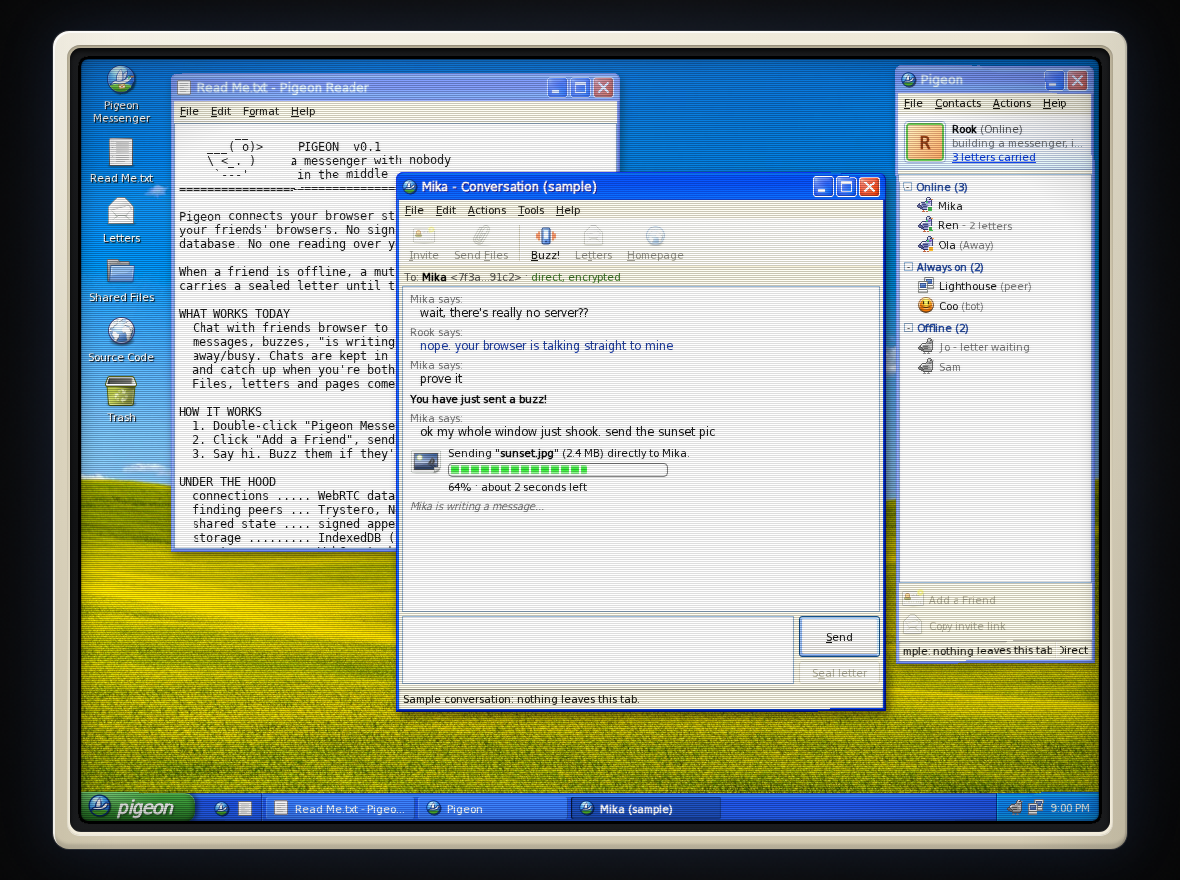
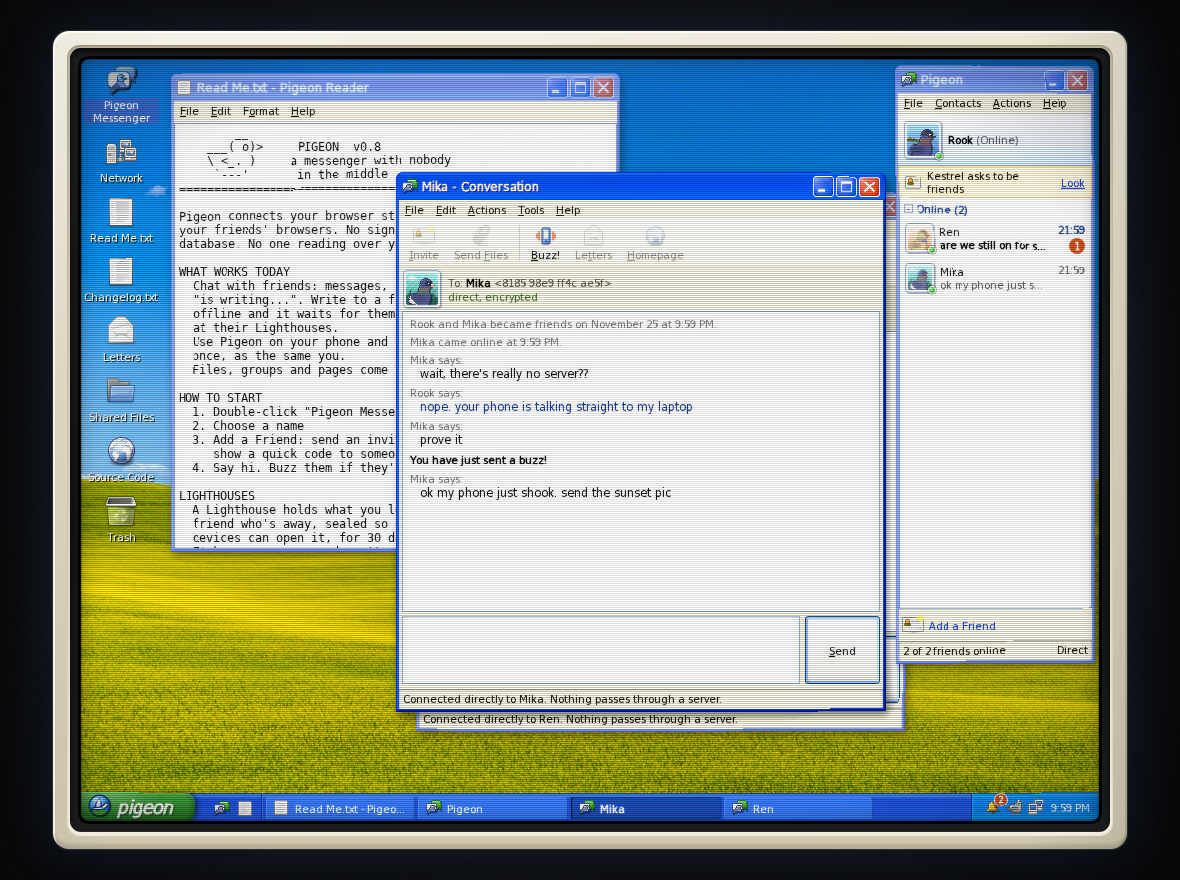
docs: a leaner README and Read Me, with 0.8.0's screenshots (#99)
Ready for 0.8.0.

- **README:** the feature list is down to the four big things: adding
friends with an invite link or a quick code, messages that wait at
Lighthouses, all your devices, and the desktop and the Pocket. The note
at the top says what works, and Try It says to send an invite link. The
Lighthouse paragraph is shorter.
- **Read Me.txt** says the same in brief: what works, how to start, what
a Lighthouse is, and the known limits. Under the Hood is gone; the
README and Help cover it.
- **Screenshots:** the four app screenshots are retaken with real paired
Pigeons, since the sample conversation is gone, and they show 0.8.
- the desktop, with a chat with Mika, the friend list with last messages
and a badge, a request strip, and the tray badge;
  - the Pocket's home screen, with While You Were Away and Online Now;
  - Add a Friend, with Kestrel asking through an invite link;
  - a chat on the Pocket, with a buzz.

  The maze screenshot stays.

**Checks:** `mise run check` passes.

diff --git a/apps/web/src/apps/reader/readme/readme-text.ts b/apps/web/src/apps/reader/readme/readme-text.ts
@@ -11,45 +11,29 @@ your friends' browsers. No sign-up. No
 database. No one reading over your shoulder.
 
 WHAT WORKS TODAY
-  Chat with friends browser to browser:
-  messages, buzzes, "is writing..." and
-  away/busy. Chats are kept in this browser
-  and catch up when you're both online.
-  Every friend has a pigeon of their own,
-  drawn from their key, the same everywhere.
+  Chat with friends: messages, buzzes and
+  "is writing...". Write to a friend who's
+  offline and it waits for them, sealed,
+  at their Lighthouses.
   Use Pigeon on your phone and laptop at
   once, as the same you.
-  Letters, files and pages come later.
+  Files, groups and pages come later.
 
-HOW IT WORKS
+HOW TO START
   1. Double-click "Pigeon Messenger"
-  2. Click "Add a Friend", send the link
-  3. Say hi. Buzz them if they're slow.
-  On another device: File, Link a Device
-  on this one, then type the code there.
-
-UNDER THE HOOD
-  connections ..... WebRTC data channels
-  finding peers ... Trystero, Nostr relays
-  your rooms ...... named by a secret only
-                    you two hold, renamed
-                    every day
-  shared state .... signed append-only logs
-  storage ......... IndexedDB (local only)
-  crypto .......... WebCrypto keypairs
+  2. Choose a name
+  3. Add a Friend: send an invite link, or
+     show a quick code to someone near you
+  4. Say hi. Buzz them if they're slow.
 
 LIGHTHOUSES
-  When a friend is away, a Lighthouse
-  holds what you leave for them, sealed so
-  only their devices can open it. Your own
-  devices leave each other what changed
-  there too: your name, your devices and
-  your Lighthouses. It keeps
-  no names and nothing it can read, for 30
-  days at most. It does see your address
-  when you connect. Network, on the
-  desktop, shows yours: Loft, Dovecote and
-  Perch unless you add your own.
+  A Lighthouse holds what you leave for a
+  friend who's away, sealed so only their
+  devices can open it, for 30 days at most.
+  It keeps no names and can't read it, but
+  it does see your address when you
+  connect. Network shows yours: Loft,
+  Dovecote and Perch unless you add more.
 
 KNOWN LIMITS
   Some networks block direct connections;
@@ -57,8 +41,8 @@ KNOWN LIMITS
   can't read your messages. Always Go
   Through the Relay, in Network, hides your
   address from friends too.
-  Only your first device links and removes
-  devices. Keep it safe.
+  Keep your first device safe: it links and
+  removes the others.
   On an iPhone, add Pigeon to the Home
   Screen, or Safari forgets it in 7 days.
 

diff --git a/README.md b/README.md
@@ -12,42 +12,36 @@
 </div>
 
 <p align="center">
-    <img src="docs/screenshots/1-desktop.png" alt="The Pigeon desktop on a CRT monitor, with the Read Me, a conversation with Mika and the friends list open" width="840" />
+    <img src="docs/screenshots/1-desktop.png" alt="The Pigeon desktop on a CRT monitor: a conversation with Mika, the friends list with each chat's last message, and Read Me" width="840" />
 </p>
 
 > [!NOTE]
-> Pigeon is in early development. Chatting with friends, on as many of your devices as you like, works today, and messages reach friends who are offline. Files and pages hosted by friends aren't built yet.
+> Pigeon is in early development. Chatting with friends, on all your devices, works today, even when they're offline. Files, groups and pages hosted by friends come later.
 > Try it at **[pigeon.tomszir.com](https://pigeon.tomszir.com)**.
 
 ## What it does
 
 It's 2003, peer-to-peer won and the cloud never happened. Pigeon is the messenger from that world: your browser talks straight to your friends' browsers, with no account, no server keeping your chats and no one reading over your shoulder.
 
-- **Add a friend with a code:** Add a Friend shows a short code like `K7RT-VP2B` to read out, a link and a QR code. Each code works once, for 30 minutes. Before a friend is added, Pigeon shows who answered and their fingerprint, so you can check it's really them.
-- **Chat like it's 2003:** messages, buzzes that shake the window, "is writing a message…", away and busy, and a note when a friend comes online or goes offline.
-- **Chats that catch up:** conversations are kept in your browser, signed by both sides, and fill in what you missed the next time you're both online.
-- **A pigeon for everyone:** every friend gets a pixel bird drawn from their key, the same on every Pigeon, shown next to their fingerprint.
-- **Your phone and your laptop:** link a second device in person with a code and a 6-digit check, and it's you there too, with your friends and your name. Your first device links and removes devices.
-- **Yours to keep:** a recovery key brings your Pigeon back if you lose your devices, and Export My Data seals your friends, chats and settings in a file only your passphrase opens.
-- **Pigeon Explorer:** a browser for `pigeon://` pages, with Pigeon's own start page and Help, the protocol included, drawn in 2003's HTML and CSS.
-- **What's new:** after an update, a balloon offers Changelog.txt, release notes written for people.
-- **A whole desktop:** windows you can drag, a taskbar, a CRT monitor, and a 3D maze or pigeons in flight when you turn it off.
-- **The Kestrel Pocket on phones:** on a phone, Pigeon runs on a 2003 handheld with soft keys, an LCD screen and a buzz you can feel.
+- **Add friends with a link or a code:** send an invite link that waits up to 30 days, for one friend or several, and approve each one who asks; or show a quick code to someone next to you. Pigeon checks it's really them by their fingerprint.
+- **Messages that wait:** chat browser to browser, buzz, see who's writing. Write to a friend who's offline and it's left, sealed, at their Lighthouses until they're back, and each message says where it is.
+- **All your devices:** link your phone to your laptop and it's you there too, with your friends, your name and your chats. A recovery key brings your Pigeon back if you lose them.
+- **A whole desktop:** windows, a taskbar, a CRT monitor and Pigeon Explorer for `pigeon://` pages; on a phone, the Kestrel Pocket, a 2003 handheld with a home screen and soft keys.
 
 <table>
     <tr>
-        <td width="50%"><img src="docs/screenshots/2-pocket-today.png" alt="The Kestrel Pocket's Today screen" /></td>
-        <td width="50%"><img src="docs/screenshots/4-pocket-chat.png" alt="A conversation on the Kestrel Pocket" /></td>
+        <td width="50%"><img src="docs/screenshots/2-pocket-today.png" alt="The Kestrel Pocket's home screen: programs, a new message from Rook, and who's online" /></td>
+        <td width="50%"><img src="docs/screenshots/4-pocket-chat.png" alt="A conversation with Rook on the Kestrel Pocket, with a buzz" /></td>
     </tr>
     <tr>
-        <td><img src="docs/screenshots/3-add-a-friend.png" alt="Choosing the name friends will see" /></td>
+        <td><img src="docs/screenshots/3-add-a-friend.png" alt="Add a Friend: Kestrel asks to be friends through an invite link" /></td>
         <td><img src="docs/screenshots/5-maze.png" alt="The 3D maze screen saver" /></td>
     </tr>
 </table>
 
 ## Try it
 
-Open [pigeon.tomszir.com](https://pigeon.tomszir.com) in two browsers (or on your phone and your laptop), choose a name in each, and type one's invite code into the other.
+Open [pigeon.tomszir.com](https://pigeon.tomszir.com), choose a name, and send a friend an invite link from Add a Friend. Or try it alone in two browsers.
 
 ## How it works
 
@@ -55,7 +49,7 @@ Browsers connect directly over WebRTC. To find each other, they post small signe
 
 Each browser makes its own identity, a WebCrypto key pair that never leaves it, and your fingerprint comes from it. Every message is signed, so a friend can't be impersonated, and each chat is a signed append-only log that two browsers merge when they meet. Friends meet in a room named and locked by a secret only the two of them hold, renamed every day, so knowing two people's ids says nothing about when they talk. Several devices are one person through a device log your first device signs. The protocol is in [docs/protocol.md](docs/protocol.md).
 
-Honest P2P has a cost: a friend has to be online for a message to arrive. Lighthouses are how Pigeon gets around it: peers anyone can run that hold mail sealed to a friend's devices until they're back, without being able to open it or say whom it's from. Removing a friend already goes through them, so a friend who's offline hears it when they next open Pigeon, and so do your own devices' changes (your name, your list of devices, your Lighthouses), so a tablet left in a drawer catches up when it opens, and so do your messages: written while a friend is away, they're left there as a letter for when they're back. Pigeon leaves mail at the three official Lighthouses (Loft, a Cloudflare Worker, and Dovecote and Perch, run at home through Tailscale Funnel) unless told otherwise, and Network on the desktop shows yours, whether each answers, and lets you add your own. [docs/lighthouse.md](docs/lighthouse.md) says how to run one, and what it stores and sees.
+Honest P2P has a cost: a friend has to be online for a message to arrive. Lighthouses get around it: peers anyone can run that hold mail sealed to a friend's devices until they're back, without being able to open it or say whom it's from. Messages, invite links, farewells and your own devices' changes all go through them. Pigeon uses the three official Lighthouses (Loft, Dovecote and Perch) unless you add your own in Network. [docs/lighthouse.md](docs/lighthouse.md) says how to run one, and what it stores and sees.
 
 ## Privacy
 
